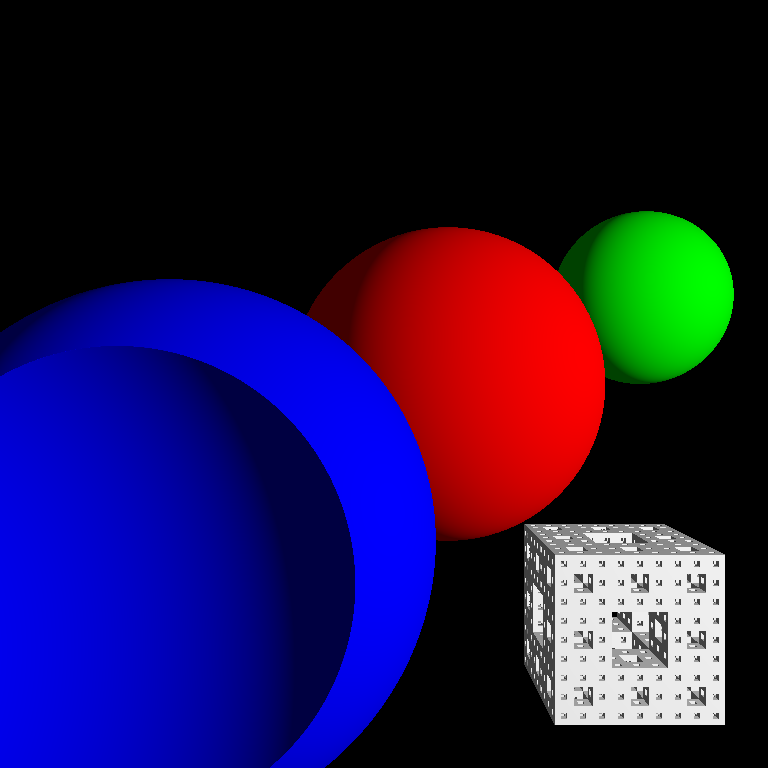
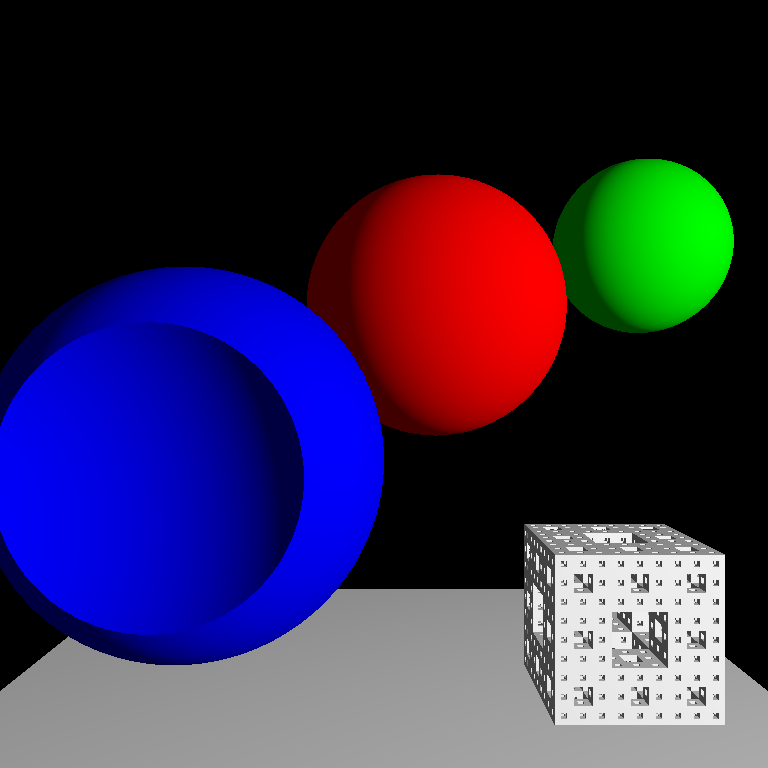
Scene loader
Added: loadScene function to load objects from file
Added: Scene file for objects description
Added: Sphere, Box, Cross, DeathStar, MengerSponge,
       Bounds, Light, Color description commands
Added: DeathStar Compound generator
Refactored: MengerSponge class -> Compound generator
Added: Scene loading and rendering messages

diff --git a/source/body.cpp b/source/body.cpp
@@ -60,94 +60,96 @@ namespace Body {
         return std::numeric_limits<float>::infinity();
     }
 
-    /// Menger Sponge ///
-    MengerSponge::MengerSponge(float3 position, float size, int iterations,
-                               float3 color, Mode mode) :
-        Base(Type::MENGER_SPONGE, mode, color),
-        position(position), size(size), iterations(iterations) {
-
-        Box *box = new Box(position, float3(size), color, mode);
-        Compound *diff = this->generate(position, size, iterations);
-        this->body = new Compound(box, diff, color, Mode::DIFFERENCE);
-    }
-
-    float MengerSponge::SDF(float3 position) {
-        return this->body->SDF(position);
-    }
-
-    Compound* MengerSponge::generate(float3 position, float size, int iterations) {
+    /// Menger Sponge /// 
+    Compound* generateMengerSponge(float3 position, float size, int iterations,
+            float3 color, Mode mode) {
         float d = size / 3;
-        Cross *cross = new Cross(position, float3(d), this->color, this->mode);
+        Cross *cross = new Cross(position, float3(d), color, mode);
         Empty *empty = new Empty();
-        Compound *result = new Compound(cross, empty, this->color, this->mode);
+        Compound *result = new Compound(cross, empty, color, mode);
         if (iterations >= 2) {
             Compound *recursive;
 
             // Front
-            recursive = this->generate(position + float3(d, -d, -d), d, iterations - 1);
-            result = new Compound(result, recursive, this->color, this->mode);
+            recursive = generateMengerSponge(position + float3(d, -d, -d), d, iterations - 1, color, mode);
+            result = new Compound(result, recursive, color, mode);
 
-            recursive = this->generate(position + float3(0, -d, -d), d, iterations - 1);
-            result = new Compound(result, recursive, this->color, this->mode);
+            recursive = generateMengerSponge(position + float3(0, -d, -d), d, iterations - 1, color, mode);
+            result = new Compound(result, recursive, color, mode);
 
-            recursive = this->generate(position + float3(-d, -d, -d), d, iterations - 1);
-            result = new Compound(result, recursive, this->color, this->mode);
+            recursive = generateMengerSponge(position + float3(-d, -d, -d), d, iterations - 1, color, mode);
+            result = new Compound(result, recursive, color, mode);
 
-            recursive = this->generate(position + float3(d, d, -d), d, iterations - 1);
-            result = new Compound(result, recursive, this->color, this->mode);
+            recursive = generateMengerSponge(position + float3(d, d, -d), d, iterations - 1, color, mode);
+            result = new Compound(result, recursive, color, mode);
 
-            recursive = this->generate(position + float3(0, d, -d), d, iterations - 1);
-            result = new Compound(result, recursive, this->color, this->mode);
+            recursive = generateMengerSponge(position + float3(0, d, -d), d, iterations - 1, color, mode);
+            result = new Compound(result, recursive, color, mode);
 
-            recursive = this->generate(position + float3(-d, d, -d), d, iterations - 1);
-            result = new Compound(result, recursive, this->color, this->mode);
+            recursive = generateMengerSponge(position + float3(-d, d, -d), d, iterations - 1, color, mode);
+            result = new Compound(result, recursive, color, mode);
 
-            recursive = this->generate(position + float3(-d, 0, -d), d, iterations - 1);
-            result = new Compound(result, recursive, this->color, this->mode);
+            recursive = generateMengerSponge(position + float3(-d, 0, -d), d, iterations - 1, color, mode);
+            result = new Compound(result, recursive, color, mode);
 
-            recursive = this->generate(position + float3(d, 0, -d), d, iterations - 1);
-            result = new Compound(result, recursive, this->color, this->mode);
+            recursive = generateMengerSponge(position + float3(d, 0, -d), d, iterations - 1, color, mode);
+            result = new Compound(result, recursive, color, mode);
 
             // Back
-            recursive = this->generate(position + float3(d, -d, d), d, iterations - 1);
-            result = new Compound(result, recursive, this->color, this->mode);
+            recursive = generateMengerSponge(position + float3(d, -d, d), d, iterations - 1, color, mode);
+            result = new Compound(result, recursive, color, mode);
 
-            recursive = this->generate(position + float3(0, -d, d), d, iterations - 1);
-            result = new Compound(result, recursive, this->color, this->mode);
+            recursive = generateMengerSponge(position + float3(0, -d, d), d, iterations - 1, color, mode);
+            result = new Compound(result, recursive, color, mode);
 
-            recursive = this->generate(position + float3(-d, -d, d), d, iterations - 1);
-            result = new Compound(result, recursive, this->color, this->mode);
+            recursive = generateMengerSponge(position + float3(-d, -d, d), d, iterations - 1, color, mode);
+            result = new Compound(result, recursive, color, mode);
 
-            recursive = this->generate(position + float3(d, d, d), d, iterations - 1);
-            result = new Compound(result, recursive, this->color, this->mode);
+            recursive = generateMengerSponge(position + float3(d, d, d), d, iterations - 1, color, mode);
+            result = new Compound(result, recursive, color, mode);
 
-            recursive = this->generate(position + float3(0, d, d), d, iterations - 1);
-            result = new Compound(result, recursive, this->color, this->mode);
+            recursive = generateMengerSponge(position + float3(0, d, d), d, iterations - 1, color, mode);
+            result = new Compound(result, recursive, color, mode);
 
-            recursive = this->generate(position + float3(-d, d, d), d, iterations - 1);
-            result = new Compound(result, recursive, this->color, this->mode);
+            recursive = generateMengerSponge(position + float3(-d, d, d), d, iterations - 1, color, mode);
+            result = new Compound(result, recursive, color, mode);
 
-            recursive = this->generate(position + float3(-d, 0, d), d, iterations - 1);
-            result = new Compound(result, recursive, this->color, this->mode);
+            recursive = generateMengerSponge(position + float3(-d, 0, d), d, iterations - 1, color, mode);
+            result = new Compound(result, recursive, color, mode);
 
-            recursive = this->generate(position + float3(d, 0, d), d, iterations - 1);
-            result = new Compound(result, recursive, this->color, this->mode);
+            recursive = generateMengerSponge(position + float3(d, 0, d), d, iterations - 1, color, mode);
+            result = new Compound(result, recursive, color, mode);
 
             // Middle
-            recursive = this->generate(position + float3(-d, -d, 0), d, iterations - 1);
-            result = new Compound(result, recursive, this->color, this->mode);
+            recursive = generateMengerSponge(position + float3(-d, -d, 0), d, iterations - 1, color, mode);
+            result = new Compound(result, recursive, color, mode);
 
-            recursive = this->generate(position + float3(d, -d, 0), d, iterations - 1);
-            result = new Compound(result, recursive, this->color, this->mode);
+            recursive = generateMengerSponge(position + float3(d, -d, 0), d, iterations - 1, color, mode);
+            result = new Compound(result, recursive, color, mode);
 
-            recursive = this->generate(position + float3(-d, d, 0), d, iterations - 1);
-            result = new Compound(result, recursive, this->color, this->mode);
+            recursive = generateMengerSponge(position + float3(-d, d, 0), d, iterations - 1, color, mode);
+            result = new Compound(result, recursive, color, mode);
 
-            recursive = this->generate(position + float3(d, d, 0), d, iterations - 1);
-            result = new Compound(result, recursive, this->color, this->mode);
+            recursive = generateMengerSponge(position + float3(d, d, 0), d, iterations - 1, color, mode);
+            result = new Compound(result, recursive, color, mode);
         }
 
         return result;
+    }
+
+    Compound* MengerSponge(float3 position, float size, int iterations,
+            float3 color, Mode mode) {
+        Box *box = new Box(position, float3(size), color, mode);
+        Compound *diff = generateMengerSponge(position, size, iterations, color, mode);
+        return new Compound(box, diff, color, Mode::DIFFERENCE);
+    }
+
+    /// Death Star ///
+    Compound* DeathStar(float3 position, float radius, float3 color, Mode mode) {
+        Sphere *sphere = new Sphere(position, radius, color, mode);
+        float3 diffposition = float3(position.x, position.y, position.z - 1.5f * radius);
+        Sphere *diff = new Sphere(diffposition, radius, color, mode);
+        return new Compound(sphere, diff, color, Mode::DIFFERENCE);
     }
 
     /// Compound ///

diff --git a/source/main.cpp b/source/main.cpp
@@ -14,10 +14,11 @@
 #include <iostream>
 #include <omp.h>
 
-// Load shaders
+// Load shaders and scene
 #include <string>
 #include <cstring>
 #include <fstream>
+#include <sstream>
 
 #include "constants.h"
 #include "body.h"
@@ -36,6 +37,69 @@ namespace scene {
 namespace gpu {
     GLFWwindow* window;
     GLuint shader;
+}
+
+void loadScene(const char *path) {
+    std::ifstream file(path);
+    std::string line;
+
+    float3 color = float3(1.0f);
+    while (std::getline(file, line)) {
+        std::istringstream input(line);
+        std::string cmd;
+        input >> cmd;
+
+        Body::Base *obj;
+        bool isBody = true;
+        if (cmd == "Sphere") {
+            float3 position;
+            float radius;
+            input >> position.x >> position.y >> position.z >> radius;
+            obj = new Body::Sphere(position, radius, color);
+        } else if (cmd == "Box") {
+            float3 position, size;
+            input >> position.x >> position.y >> position.z;
+            input >> size.x >> size.y >> size.z;
+            obj = new Body::Box(position, size, color);
+        } else if (cmd == "Cross") {
+            float3 position, size;
+            input >> position.x >> position.y >> position.z;
+            input >> size.x >> size.y >> size.z;
+            obj = new Body::Cross(position, size, color);
+        } else if (cmd == "DeathStar") {
+            float3 position;
+            float radius;
+            input >> position.x >> position.y >> position.z >> radius;
+            obj = Body::DeathStar(position, radius, color);
+        } else if (cmd == "MengerSponge") {
+            float3 position;
+            float size;
+            int iterations;
+            input >> position.x >> position.y >> position.z >> size >> iterations;
+            obj = Body::MengerSponge(position, size, iterations);
+        } else isBody = false;
+
+        if (isBody) {
+            int ID = scene::objects.add(obj);
+            scene::bodyIDs.push_back(ID);
+            continue;
+        }
+
+        if (cmd == "Bounds") {
+            float size;
+            input >> size;
+            Body::Box *bounds = new Body::Box (float3(0.0f), float3(size));
+            scene::boundsID = scene::objects.add(bounds);
+        } else if (cmd == "Light") {
+            float3 position;
+            input >> position.x >> position.y >> position.z;
+            Object::Light *light = new Object::Light (position);
+            scene::lightID = scene::objects.add(light);
+        } else if (cmd == "Color") {;
+            input >> color.x >> color.y >> color.z;
+        }
+
+    }
 }
 
 // Check if the position is inside of scene boundaries
@@ -291,40 +355,11 @@ int main() {
     Image2D<float4> image(width, height);
 
     /// Init scene objects ///
-    Body::Box *bounds = new Body::Box ( float3(0.0f), float3(200.0f) );
-    scene::boundsID = scene::objects.add(bounds);
-
-    Object::Light *light = new Object::Light ( float3(50.0f, 10.0f, -20.0f) );
-    scene::lightID = scene::objects.add(light);
-
-    int ID;
-
-    // Red
-    Body::Sphere *sphere = new Body::Sphere ( float3(2.0f, 0.0f, 25.0f), 5.0f, float3(1.0f, 0.0f, 0.0f) );
-    ID = scene::objects.add(sphere);
-    scene::bodyIDs.push_back(ID);
-
-    // Compound blue
-    Body::Sphere *sphere1 = new Body::Sphere ( float3(-4.0f, -3.0f, 15.0f), 5.0f, float3(0.0f) );
-    Body::Sphere *sphere2 = new Body::Sphere ( float3(-4.0f, -3.0f, 8.0f), 5.0f, float3(0.0f) );
-    Body::Compound *compound = new Body::Compound( sphere1, sphere2, float3(0.0f, 0.0f, 1.0f),
-            Body::Mode::DIFFERENCE );
-    ID = scene::objects.add(compound);
-    scene::bodyIDs.push_back(ID);
-
-    // Green
-    sphere = new Body::Sphere ( float3(15.0f, 5.0f, 45.0f), 5.0f, float3(0.0f, 1.0f, 0.0f) );
-    ID = scene::objects.add(sphere);
-    scene::bodyIDs.push_back(ID);
-
-    // Menger Sponge //
-    Body::MengerSponge *mengerSponge = new Body::MengerSponge( float3(15.0f, -15.0f, 50.0f), 10.0f,
-           constants::iterations::mengerSponge );
-    ID = scene::objects.add(mengerSponge);
-    scene::bodyIDs.push_back(ID);
-
+    std::cout << "...Loading scene" << std::endl;
+    loadScene("scene/objects.txt");
 
     /// Render time ///
+    std::cout << "...Rendering" << std::endl;
     std::chrono::time_point<std::chrono::system_clock> start, end;
     std::chrono::duration<double> duration;
 

diff --git a/source/include/body.h b/source/include/body.h
@@ -11,7 +11,6 @@ namespace Body {
         BOX,
         CROSS,
         EMPTY,
-        MENGER_SPONGE,
         COMPOUND,
     };
 
@@ -80,17 +79,17 @@ namespace Body {
         float SDF(float3 position);
     };
 
-    struct MengerSponge: Base {
-        float3 position;
-        float size;
-        int iterations;
-        Compound *body;
-        MengerSponge(float3 position,
-                     float size,
-                     int iterations = 3,
-                     float3 color = float3(1.0f),
-                     Mode mode = Mode::DEFAULT);
-        float SDF(float3 position);
-        Compound* generate(float3 position, float size, int iterations);
-    };
+    // Generators
+    Compound* MengerSponge(
+            float3 position,
+            float size,
+            int iterations = 3,
+            float3 color = float3(1.0f),
+            Mode mode = Mode::DEFAULT);
+
+    Compound* DeathStar(
+            float3 position,
+            float radius,
+            float3 color = float3(1.0f),
+            Mode mode = Mode::DEFAULT);
 }

diff --git a/source/include/constants.h b/source/include/constants.h
@@ -7,7 +7,6 @@ using namespace LiteMath;
 namespace constants {
     namespace iterations {
         const int raymarch        = 1000;   // raymarcing iterations
-        const int mengerSponge    = 3;      // menger sponge depth iterations
     }
     const float saturation  = 0.05f;    // lighting saturation
     const int capacity      = 1 << 10;  // Container::Array capacity
